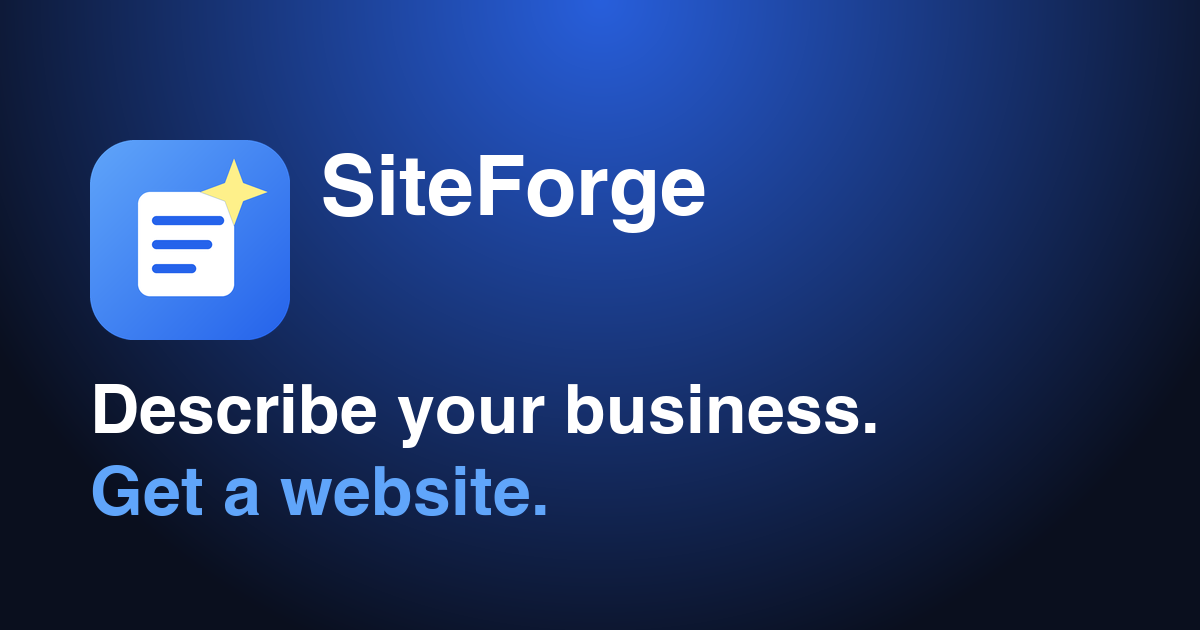
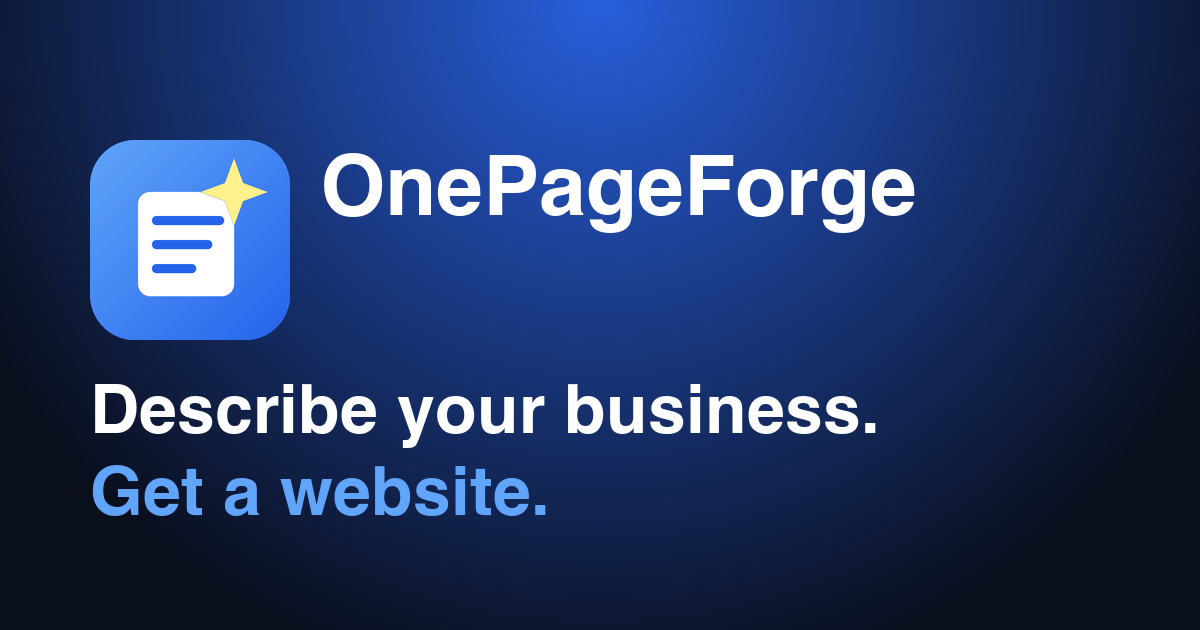
Rename to OnePageForge (onepageforge.com): brand, domain, cookie, wrangler, assets

Changed region(s): [[0.2467, 0.2413, 0.7708, 0.3921]]

diff --git a/worker/generate.ts b/worker/generate.ts
@@ -33,7 +33,7 @@ footer{padding:30px 20px;text-align:center;background:#1a1a2e;color:#94a3b8;font
 <section><h2>About Us</h2><p>We are a dedicated team focused on delivering quality services to our clients. Our commitment to excellence drives everything we do.</p></section>
 <section><h2>Our Services</h2><div class="services"><div class="card"><h3>Service One</h3><p>Professional service tailored to your needs.</p></div><div class="card"><h3>Service Two</h3><p>Expert solutions for your business challenges.</p></div><div class="card"><h3>Service Three</h3><p>Reliable support when you need it most.</p></div></div></section>
 <div class="contact"><h2>Get in Touch</h2><p>Ready to work together? Reach out and let us know how we can help.</p></div>
-<footer><p>Generated by SiteForge</p></footer>
+<footer><p>Generated by OnePageForge</p></footer>
 </body></html>`;
   }
 
@@ -135,6 +135,6 @@ export async function serveSite(c: Ctx): Promise<Response> {
   const row = await c.env.DB.prepare(`SELECT html, user_id FROM generated_sites WHERE slug = ?`).bind(slug).first<{ html: string; user_id: string }>();
   if (!row) return new Response("Website not found", { status: 404, headers: { "Content-Type": "text/html" } });
   const ent = await c.env.DB.prepare(`SELECT expires_at FROM entitlements WHERE user_id = ?`).bind(row.user_id).first<{ expires_at: number }>();
-  if (!ent || ent.expires_at < Date.now()) return new Response("<html><body><h1>This website is no longer available</h1><p>The hosting period has ended. Visit <a href='/'>SiteForge</a> to create your own website.</p></body></html>", { status: 410, headers: { "Content-Type": "text/html" } });
+  if (!ent || ent.expires_at < Date.now()) return new Response("<html><body><h1>This website is no longer available</h1><p>The hosting period has ended. Visit <a href='/'>OnePageForge</a> to create your own website.</p></body></html>", { status: 410, headers: { "Content-Type": "text/html" } });
   return new Response(row.html, { status: 200, headers: { "Content-Type": "text/html; charset=utf-8", "Cache-Control": "public, max-age=300" } });
 }

diff --git a/app/page.tsx b/app/page.tsx
@@ -34,7 +34,7 @@ export default function HomePage() {
               <span className="text-primary">Get a website.</span>
             </h1>
             <p className="mt-6 text-lg text-muted-foreground sm:text-xl">
-              Enter a short description of what you do. SiteForge generates a complete, mobile-ready one-page website and hosts it for you. No builder to learn.
+              Enter a short description of what you do. OnePageForge generates a complete, mobile-ready one-page website and hosts it for you. No builder to learn.
             </p>
             <div className="mt-8 flex flex-col justify-center gap-3 sm:flex-row lg:justify-start">
               <Button asChild size="lg" className="text-base">
@@ -85,7 +85,7 @@ export default function HomePage() {
         <div className="mx-auto max-w-7xl">
           <div className="mx-auto max-w-2xl text-center">
             <h2 className="font-heading text-3xl font-bold sm:text-4xl">Who it is for</h2>
-            <p className="mt-4 text-muted-foreground">SiteForge is built for people who need a simple page online without learning a website builder.</p>
+            <p className="mt-4 text-muted-foreground">OnePageForge is built for people who need a simple page online without learning a website builder.</p>
           </div>
           <div className="mt-12"><UseCases /></div>
         </div>
@@ -96,7 +96,7 @@ export default function HomePage() {
         <div className="mx-auto max-w-7xl">
           <div className="mx-auto max-w-2xl text-center">
             <h2 className="font-heading text-3xl font-bold sm:text-4xl">Everything you need to go online</h2>
-            <p className="mt-4 text-muted-foreground">From generation to hosting, SiteForge handles the full process so you can focus on your business.</p>
+            <p className="mt-4 text-muted-foreground">From generation to hosting, OnePageForge handles the full process so you can focus on your business.</p>
           </div>
           <div className="mt-12 grid gap-6 sm:grid-cols-2 lg:grid-cols-3">
             {features.map((f) => {

diff --git a/lib/site-config.ts b/lib/site-config.ts
@@ -1,6 +1,6 @@
 export const siteConfig = {
-  name: "SiteForge",
-  url: "https://siteforge.com",
+  name: "OnePageForge",
+  url: "https://onepageforge.com",
   tagline: "Describe your business. Get a website.",
   description: "Enter a short description of your business and get a complete, hosted one-page website. No builder to learn, no code to write.",
 
@@ -10,7 +10,7 @@ export const siteConfig = {
   registeredOffice: "{{REGISTERED OFFICE}}",
   governingLaw: "{{GOVERNING LAW}}",
 
-  supportEmail: "support@siteforge.com",
+  supportEmail: "support@onepageforge.com",
   supportHours: "Monday to Friday, 9 AM to 5 PM GMT",
   phone: "",
 
@@ -22,11 +22,11 @@ export const siteConfig = {
   refundWaiver: "This is a one-time payment. Nothing renews automatically. You can request a refund within 14 days if you have used fewer than 3 credits. See our Refund Policy for details.",
 
   social: {
-    instagram: { url: "https://instagram.com/siteforge", live: false },
-    tiktok: { url: "https://tiktok.com/@siteforge", live: false },
-    x: { url: "https://x.com/siteforge", live: false },
-    youtube: { url: "https://youtube.com/@siteforge", live: false },
-    linkedin: { url: "https://linkedin.com/company/siteforge", live: false },
+    instagram: { url: "https://instagram.com/onepageforge", live: false },
+    tiktok: { url: "https://tiktok.com/@onepageforge", live: false },
+    x: { url: "https://x.com/onepageforge", live: false },
+    youtube: { url: "https://youtube.com/@onepageforge", live: false },
+    linkedin: { url: "https://linkedin.com/company/onepageforge", live: false },
   },
 
   subProcessors: [

diff --git a/app/terms/page.tsx b/app/terms/page.tsx
@@ -2,7 +2,7 @@ import type { Metadata } from "next";
 import Link from "next/link";
 import { siteConfig } from "@/lib/site-config";
 
-export const metadata: Metadata = { title: "Terms of Service", description: "The terms that apply when you use SiteForge: plans and credits, payments, refunds, acceptable use and liability.", alternates: { canonical: "/terms/" } };
+export const metadata: Metadata = { title: "Terms of Service", description: "The terms that apply when you use OnePageForge: plans and credits, payments, refunds, acceptable use and liability.", alternates: { canonical: "/terms/" } };
 
 const s = siteConfig;
 
@@ -37,7 +37,7 @@ export default function TermsPage() {
 
       <h2>7. Generated websites</h2>
       <p>The websites you generate using {s.name} are yours to use. You may download the HTML and host it elsewhere. We grant you a non-exclusive, worldwide licence to use, modify and display any website generated through your account.</p>
-      <p>We host your generated websites at a {s.name} subdomain (e.g. siteforge.com/s/your-slug) for the duration of your access period. After your access expires, hosted websites return a "this site has expired" notice. {s.dataRetention}</p>
+      <p>We host your generated websites at a {s.name} subdomain (e.g. onepageforge.com/s/your-slug) for the duration of your access period. After your access expires, hosted websites return a "this site has expired" notice. {s.dataRetention}</p>
 
       <h2>8. Acceptable use</h2>
       <p>You may not use {s.name} to generate websites that:</p>

diff --git a/app/cookies/page.tsx b/app/cookies/page.tsx
@@ -2,7 +2,7 @@ import type { Metadata } from "next";
 import Link from "next/link";
 import { siteConfig } from "@/lib/site-config";
 
-export const metadata: Metadata = { title: "Cookie Policy", description: "SiteForge uses only strictly necessary and functional cookies. See exactly which ones.", alternates: { canonical: "/cookies/" } };
+export const metadata: Metadata = { title: "Cookie Policy", description: "OnePageForge uses only strictly necessary and functional cookies. See exactly which ones.", alternates: { canonical: "/cookies/" } };
 
 const s = siteConfig;
 
@@ -21,7 +21,7 @@ export default function CookiesPage() {
       <table>
         <thead><tr><th>Name</th><th>Purpose</th><th>Type</th><th>Duration</th></tr></thead>
         <tbody>
-          <tr><td>siteforge_session</td><td>Keeps you signed in to your account</td><td>Strictly necessary</td><td>7 days (refreshed on each visit)</td></tr>
+          <tr><td>onepageforge_session</td><td>Keeps you signed in to your account</td><td>Strictly necessary</td><td>7 days (refreshed on each visit)</td></tr>
           <tr><td>theme</td><td>Remembers your light or dark mode preference</td><td>Functional (client-side only)</td><td>1 year</td></tr>
         </tbody>
       </table>

diff --git a/components/sections/ProductIllustration.tsx b/components/sections/ProductIllustration.tsx
@@ -23,7 +23,7 @@ export function ProductIllustration({ className = "" }: { className?: string }) 
             <span className="h-2.5 w-2.5 rounded-full bg-red-400/70" />
             <span className="h-2.5 w-2.5 rounded-full bg-amber-400/70" />
             <span className="h-2.5 w-2.5 rounded-full bg-emerald-400/70" />
-            <span className="ml-3 truncate rounded-md bg-muted px-3 py-1 text-xs text-muted-foreground">siteforge.com/app</span>
+            <span className="ml-3 truncate rounded-md bg-muted px-3 py-1 text-xs text-muted-foreground">onepageforge.com/app</span>
           </div>
           <div className="grid gap-0 md:grid-cols-2">
             <div className="border-b border-border/60 p-5 md:border-b-0 md:border-r">

diff --git a/app/signup/layout.tsx b/app/signup/layout.tsx
@@ -1,7 +1,7 @@
 import type { Metadata } from "next";
 import { JsonLd, breadcrumb } from "@/components/JsonLd";
 
-export const metadata: Metadata = { title: "Create an account", description: "Create a SiteForge account to buy a plan and generate your website.", alternates: { canonical: "/signup/" } };
+export const metadata: Metadata = { title: "Create an account", description: "Create a OnePageForge account to buy a plan and generate your website.", alternates: { canonical: "/signup/" } };
 
 export default function Layout({ children }: { children: React.ReactNode }) {
   return <><JsonLd data={breadcrumb("Create an account", "/signup/")} />{children}</>;

diff --git a/app/contact/layout.tsx b/app/contact/layout.tsx
@@ -1,7 +1,7 @@
 import type { Metadata } from "next";
 import { JsonLd, breadcrumb } from "@/components/JsonLd";
 
-export const metadata: Metadata = { title: "Contact", description: "Contact the SiteForge team for support, billing questions or custom plans.", alternates: { canonical: "/contact/" } };
+export const metadata: Metadata = { title: "Contact", description: "Contact the OnePageForge team for support, billing questions or custom plans.", alternates: { canonical: "/contact/" } };
 
 export default function Layout({ children }: { children: React.ReactNode }) {
   return <><JsonLd data={breadcrumb("Contact", "/contact/")} />{children}</>;

diff --git a/app/privacy/page.tsx b/app/privacy/page.tsx
@@ -2,7 +2,7 @@ import type { Metadata } from "next";
 import Link from "next/link";
 import { siteConfig } from "@/lib/site-config";
 
-export const metadata: Metadata = { title: "Privacy Policy", description: "How SiteForge collects, uses, stores and protects your personal data, and the rights you have over it.", alternates: { canonical: "/privacy/" } };
+export const metadata: Metadata = { title: "Privacy Policy", description: "How OnePageForge collects, uses, stores and protects your personal data, and the rights you have over it.", alternates: { canonical: "/privacy/" } };
 
 const s = siteConfig;
 

diff --git a/app/refund/page.tsx b/app/refund/page.tsx
@@ -1,7 +1,7 @@
 import type { Metadata } from "next";
 import { siteConfig } from "@/lib/site-config";
 
-export const metadata: Metadata = { title: "Refund Policy", description: "SiteForge plans are one-time purchases. Read when you can request a refund and how it is processed.", alternates: { canonical: "/refund/" } };
+export const metadata: Metadata = { title: "Refund Policy", description: "OnePageForge plans are one-time purchases. Read when you can request a refund and how it is processed.", alternates: { canonical: "/refund/" } };
 
 const s = siteConfig;
 

diff --git a/app/login/layout.tsx b/app/login/layout.tsx
@@ -1,7 +1,7 @@
 import type { Metadata } from "next";
 import { JsonLd, breadcrumb } from "@/components/JsonLd";
 
-export const metadata: Metadata = { title: "Log in", description: "Log in to your SiteForge account.", alternates: { canonical: "/login/" } };
+export const metadata: Metadata = { title: "Log in", description: "Log in to your OnePageForge account.", alternates: { canonical: "/login/" } };
 
 export default function Layout({ children }: { children: React.ReactNode }) {
   return <><JsonLd data={breadcrumb("Log in", "/login/")} />{children}</>;

diff --git a/app/success/layout.tsx b/app/success/layout.tsx
@@ -1,6 +1,6 @@
 import type { Metadata } from "next";
 
-export const metadata: Metadata = { title: "Payment received", description: "Your SiteForge payment confirmation.", alternates: { canonical: "/success/" }, robots: { index: false, follow: false } };
+export const metadata: Metadata = { title: "Payment received", description: "Your OnePageForge payment confirmation.", alternates: { canonical: "/success/" }, robots: { index: false, follow: false } };
 
 export default function Layout({ children }: { children: React.ReactNode }) {
   return children;
